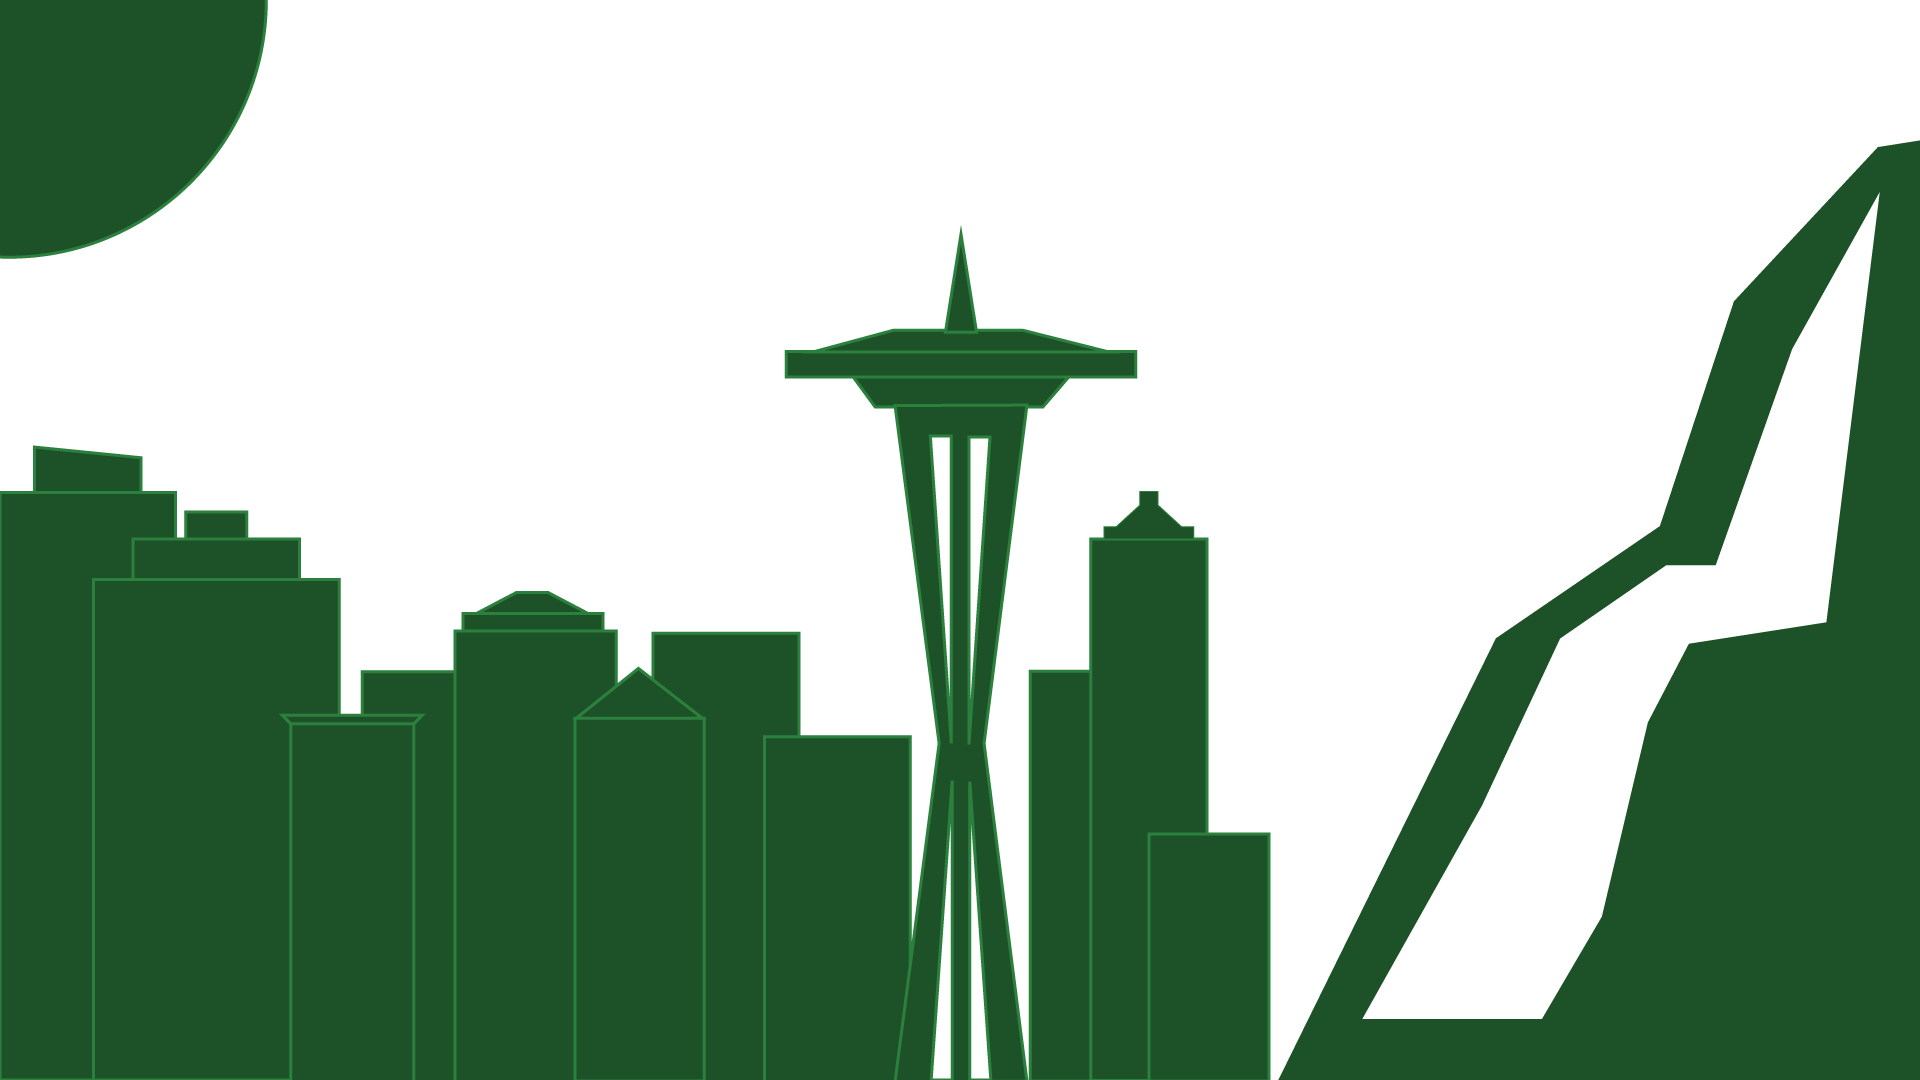
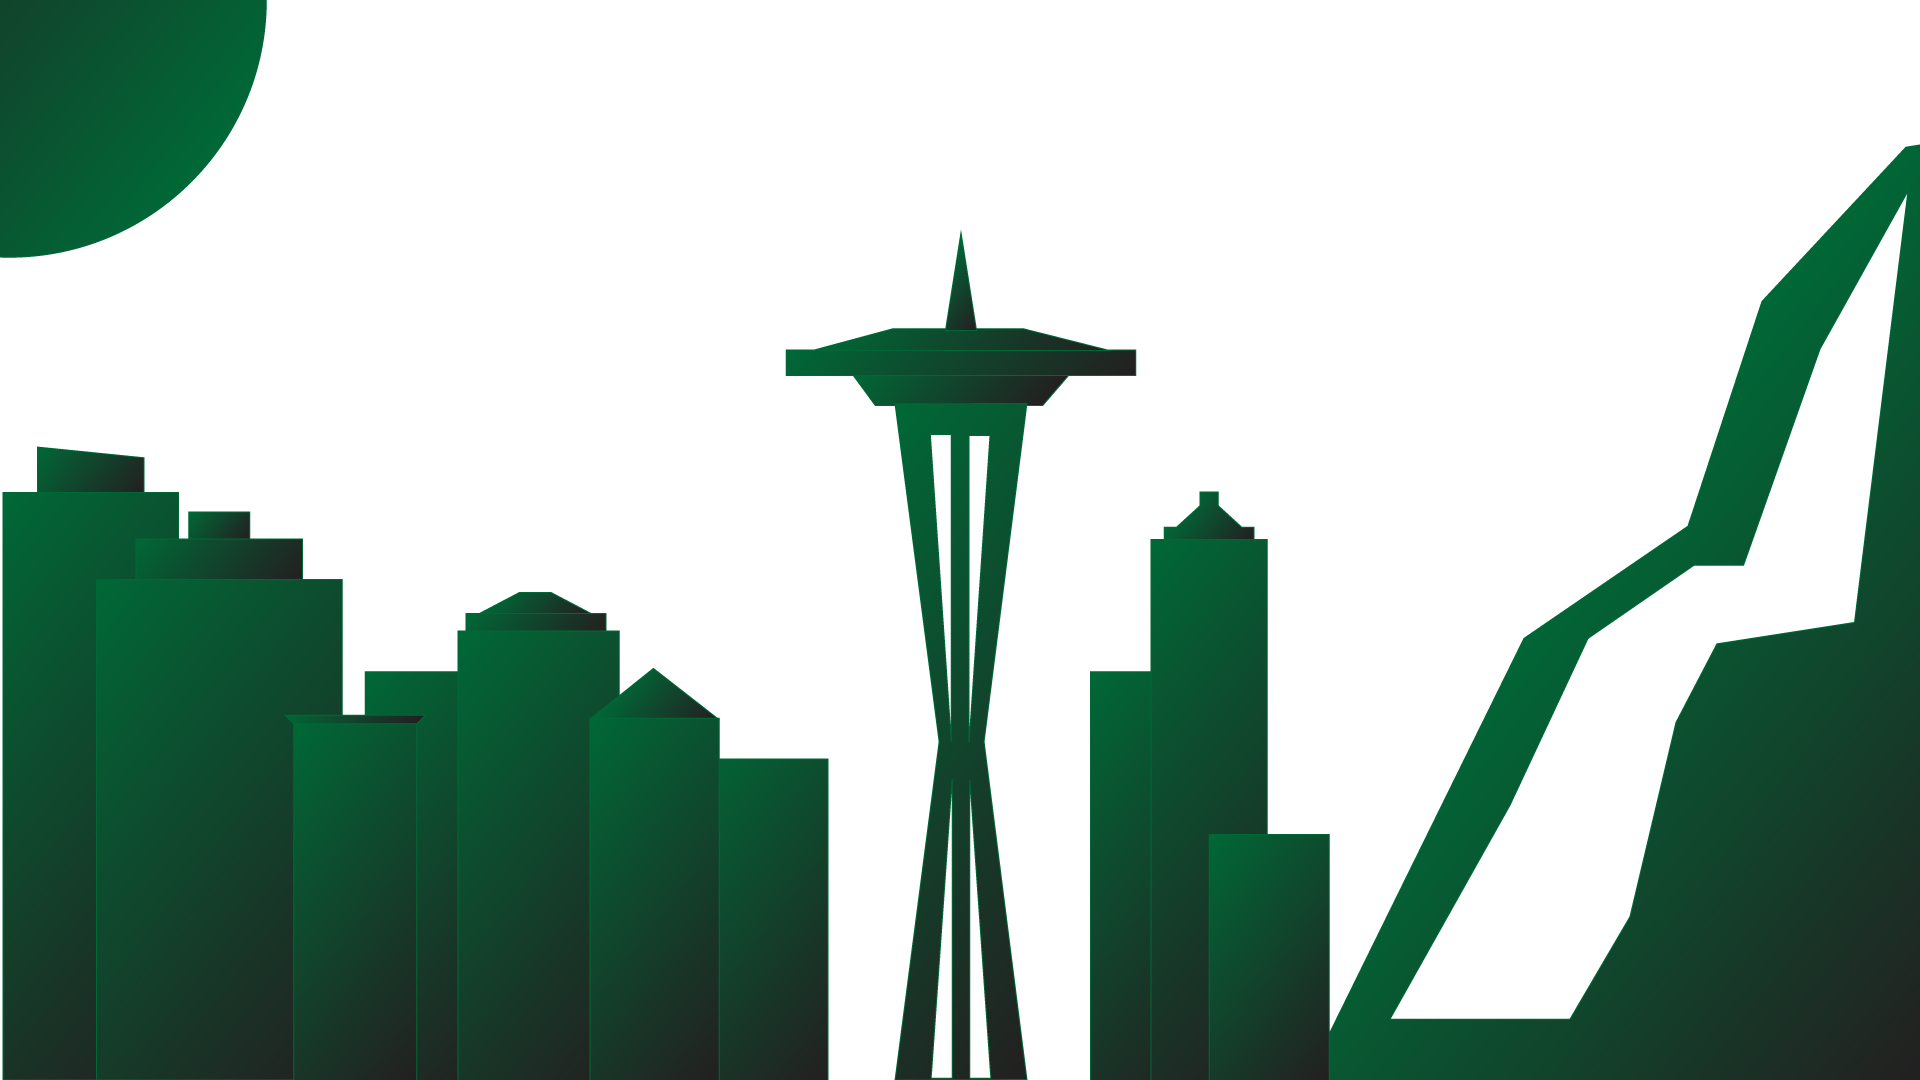
new colors

diff --git a/styles/index.css b/styles/index.css
@@ -43,9 +43,6 @@ html {
 	vertical-align: middle;
 }
 
-.section:first-of-type {
-	height: 95vh;
-}
 
 .sectionTitle {
 	text-align: center;
@@ -58,23 +55,38 @@ html {
 	-webkit-animation-delay: 100ms;
 }
 
+.sectionTitle:after {
+	content: "";
+	padding-top: 5px;
+	display: block;
+	width: 20%;
+	margin: 0 auto;
+	border-bottom: 1px solid #333;
+}
+
+#contact .sectionTitle:after, #projects .sectionTitle:after {
+	border-bottom: 1px solid white;
+}
+
 .item {
-	position: relative;
-	top: 0px;
+	color: #333;
+	/*position: relative;
+	top: 0px;*/
 	text-align: center;
 	background-color: white;
 	border-radius: 3px;
-	box-shadow:0 5px 5px rgba(60, 60, 60, 0.9);
+	/*box-shadow:0 5px 5px #333;*/
 	cursor: pointer;
 	margin-top: 10px;
 	margin-bottom: 10px;
 	padding-bottom: 10px;
+	border: 1px solid #333;
 	transition: top .3s, box-shadow .3s;
 }
 
 .item:hover {
-	top: -3px;
-	box-shadow:0 8px 10px rgba(60, 60, 60, 0.9);
+	/*top: -3px;*/
+	/*box-shadow:0 8px 10px #124545;*/
 }
 
 .item img {
@@ -109,12 +121,15 @@ html {
     background: rgba(0,0,0,0.3);
 } */
 
+
 #projects, #contact {
-	background-color: #50A062;
+	background-color: #124545;
+	color: white;
 }
 
 #about, #experience {
-	background-color: #67A29C;
+	background-color: #B2CD93; /*#C6EAE5*/
+	box-shadow: 0px 0px 50px 1px #113018 inset;
 }
 
 /*GENERAL ITEMS END*/
@@ -123,17 +138,19 @@ html {
 
 #home {
 	text-align: center;
-	background-color: #2B803E;
+	background-color: #113018; /*#2B803E;*/
 	background-image: url('../images/mainWallpaper.png');
 	background-position: 0px;
-	background-size: cover;
+	background-size: 100% 100%;
 	background-repeat: no-repeat;
+	height: 95vh;
+	color:white;
 	/*height: 50%;
 	width: 100%;*/
 	/*position: absolute;*/
 	/*top: 0px;
 	z-index: 0;*/
-	box-shadow: inset 0 -10px 20px -5px rgba(0,0,0,0.4);
+	/*box-shadow: inset 0 -10px 20px -5px rgba(0,0,0,0.4);*/
 /*	-webkit-webkit-animation-duration: 1s;
 	-moz-webkit-animation-duration: 1s;
 	-ms-webkit-animation-duration: 1s;
@@ -157,10 +174,10 @@ html {
 }
 
 #home #homeInfo > div {
-	background-color: #2B803E;
+	/* background-color: #2B803E;
 	padding: 5px 0px;
 	box-shadow: 0px 0px 10px black;
-	border-radius: 3px;
+	border-radius: 3px; */
 }
 
 #home img {
@@ -181,14 +198,14 @@ html {
 }
 
 #home i {
+	color: white;
 	font-size: 30pt;
 	margin: 0px 10px;
-	color: #333;
 	transition: color .2s;
 }
 
 #about a:hover, #home i:hover {
-	color: rgba(51,51,51,.5);
+	color: rgba(51,51,51,.8);
 }
 /*HOME END*/
 
